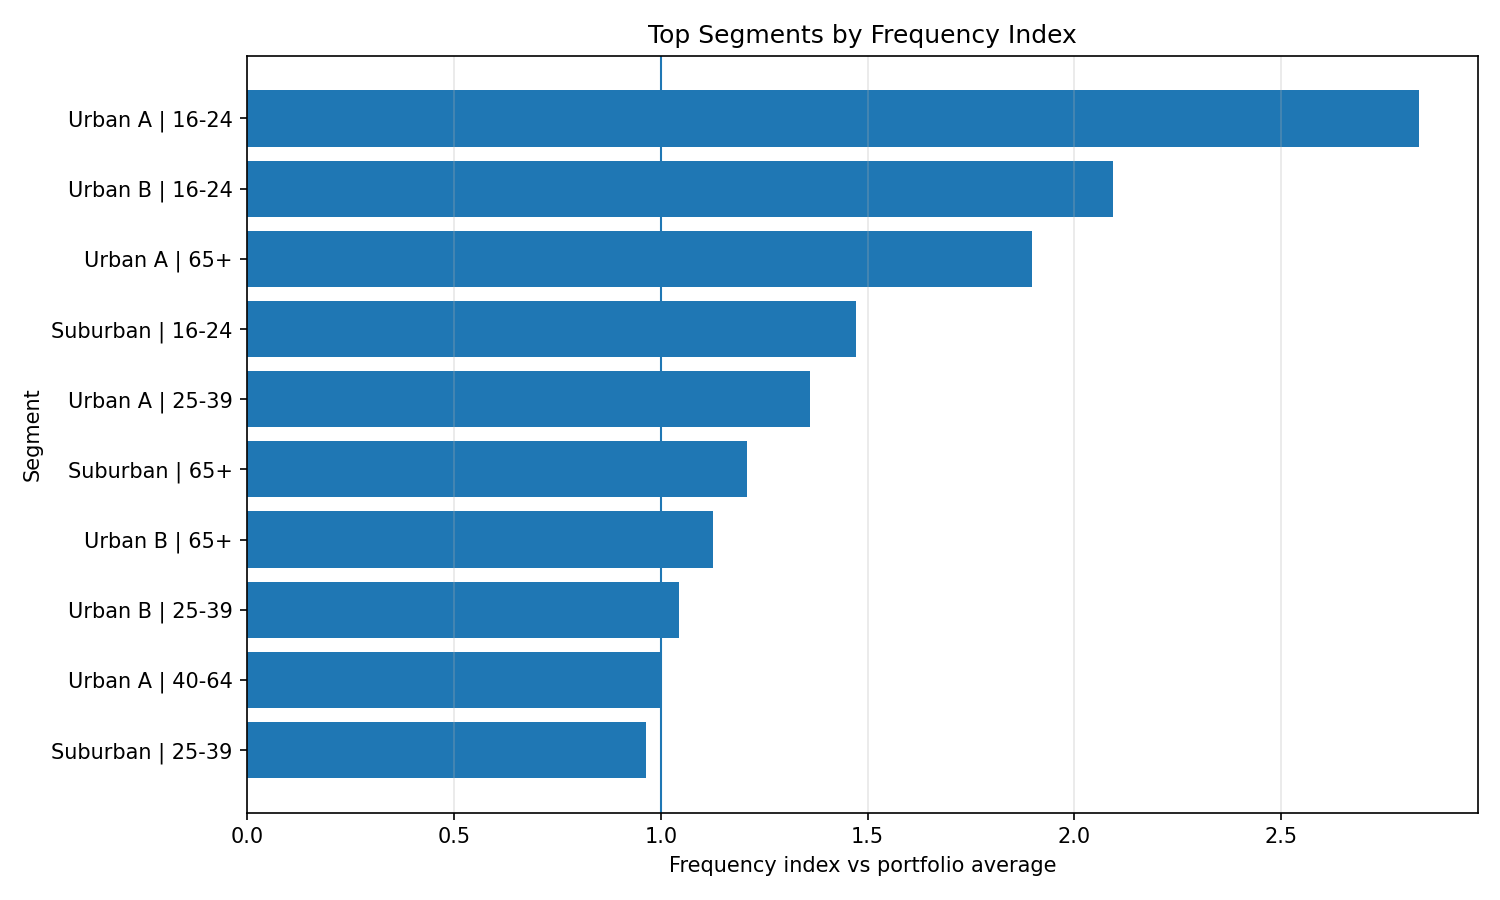
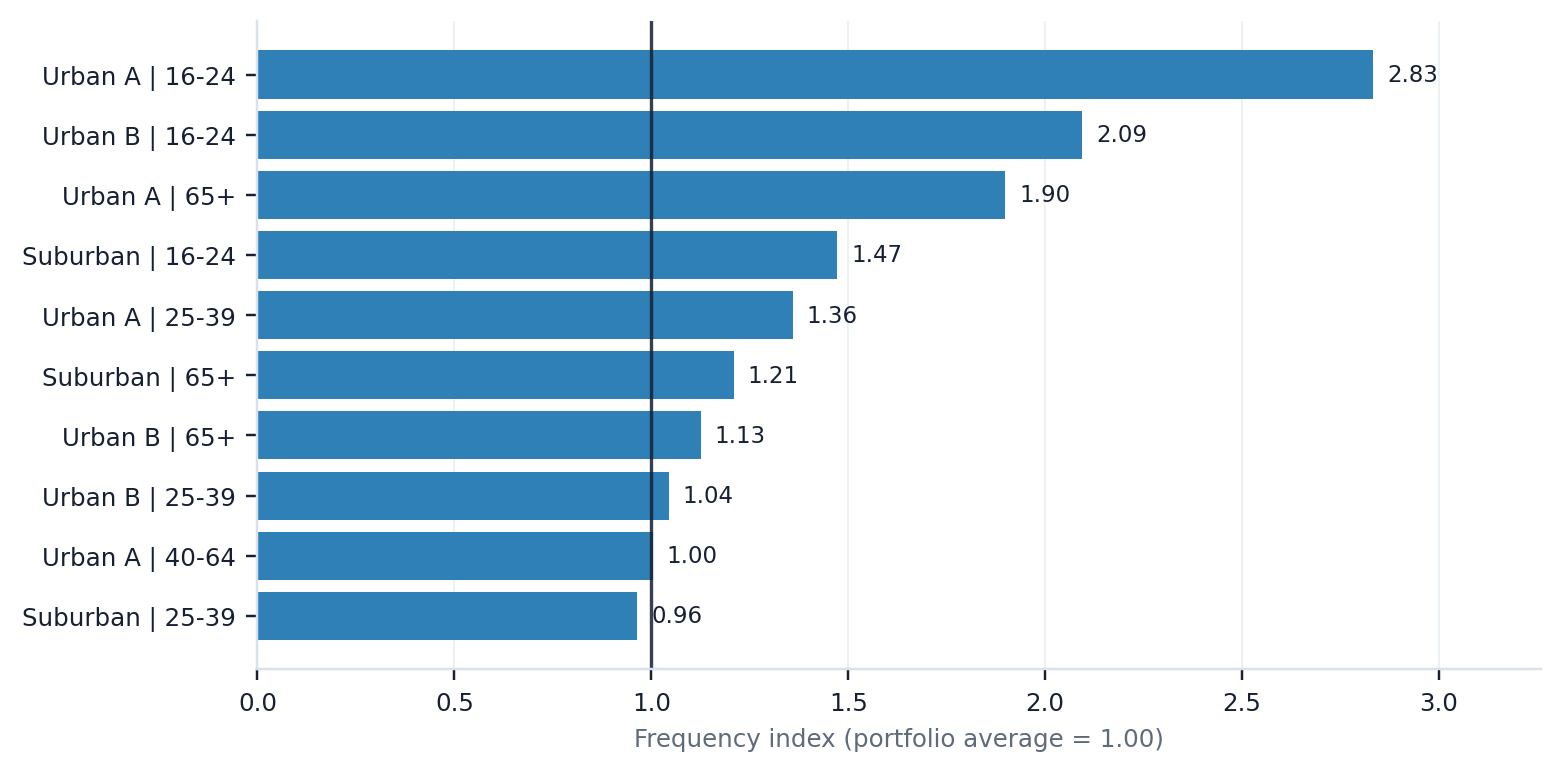
Refine executive chart styling

Changed region(s): [[0.0, 0.031, 0.9507, 0.8693], [0.1533, 0.9004, 0.9813, 0.9935]]

diff --git a/src/pc_pricing_diagnostic/executive_visuals.py b/src/pc_pricing_diagnostic/executive_visuals.py
@@ -12,6 +12,14 @@ from pc_pricing_diagnostic.frequency_model import (
 OUTPUT_FIGURES = ROOT / "outputs" / "figures"
 EXECUTIVE_EXCEL_PATH = OUTPUT_EXCEL / "executive_visual_pack.xlsx"
 
+NAVY = "#172033"
+BLUE = "#2f5f98"
+SOFT_BLUE = "#eef5fb"
+GREEN = "#5f8f72"
+MUTED = "#5f6b7a"
+GRID = "#d9e2ec"
+BAR_BLUE = "#2f80b7"
+
 
 def load_required_table(file_name: str) -> pd.DataFrame:
     """
@@ -60,6 +68,42 @@ def prettify_model_name(model_name: str) -> str:
     return mapping.get(model_name, model_name)
 
 
+def apply_executive_axis_style(ax) -> None:
+    """
+    Apply a consistent visual style to executive charts.
+    """
+    ax.set_facecolor("white")
+    ax.grid(True, alpha=0.45, color=GRID, linewidth=0.7)
+    ax.set_axisbelow(True)
+
+    ax.spines["top"].set_visible(False)
+    ax.spines["right"].set_visible(False)
+    ax.spines["left"].set_color(GRID)
+    ax.spines["bottom"].set_color(GRID)
+
+    ax.tick_params(axis="both", colors=NAVY, labelsize=8)
+
+    ax.xaxis.label.set_color(MUTED)
+    ax.yaxis.label.set_color(MUTED)
+    ax.xaxis.label.set_size(8)
+    ax.yaxis.label.set_size(8)
+
+
+def save_figure(fig, file_name: str) -> None:
+    """
+    Save an executive chart with consistent export settings.
+    """
+    OUTPUT_FIGURES.mkdir(parents=True, exist_ok=True)
+
+    fig.savefig(
+        OUTPUT_FIGURES / file_name,
+        dpi=220,
+        bbox_inches="tight",
+        facecolor="white",
+    )
+    plt.close(fig)
+
+
 def save_top_frequency_segments_chart(high_frequency_segments: pd.DataFrame) -> None:
     """
     Save a horizontal bar chart of the top segments by frequency index.
@@ -67,8 +111,6 @@ def save_top_frequency_segments_chart(high_frequency_segments: pd.DataFrame) -> 
     This is one of the most commercial charts because it highlights segments
     that may deserve pricing or underwriting review.
     """
-    OUTPUT_FIGURES.mkdir(parents=True, exist_ok=True)
-
     chart_data = prepare_segment_label(high_frequency_segments)
 
     chart_data = chart_data.sort_values(
@@ -78,25 +120,37 @@ def save_top_frequency_segments_chart(high_frequency_segments: pd.DataFrame) -> 
 
     chart_data = chart_data.iloc[::-1]
 
-    fig, ax = plt.subplots(figsize=(10, 6))
+    fig, ax = plt.subplots(figsize=(7.2, 3.6))
 
     ax.barh(
         chart_data["segment_label"],
         chart_data["frequency_index"],
+        color=BAR_BLUE,
+        edgecolor="none",
     )
-    ax.axvline(1.0, linewidth=1)
 
-    ax.set_title("Top Segments by Frequency Index")
-    ax.set_xlabel("Frequency index vs portfolio average")
-    ax.set_ylabel("Segment")
-    ax.grid(True, axis="x", alpha=0.3)
+    ax.axvline(1.0, color=NAVY, linewidth=1.1, alpha=0.85)
+
+    for index, value in enumerate(chart_data["frequency_index"]):
+        ax.text(
+            value + 0.035,
+            index,
+            f"{value:.2f}",
+            va="center",
+            fontsize=7.5,
+            color=NAVY,
+        )
+
+    ax.set_xlabel("Frequency index (portfolio average = 1.00)")
+    ax.set_ylabel("")
+    ax.set_xlim(0, max(chart_data["frequency_index"].max() * 1.15, 1.25))
+
+    apply_executive_axis_style(ax)
+    ax.grid(True, axis="x", alpha=0.45, color=GRID, linewidth=0.7)
+    ax.grid(False, axis="y")
+
     fig.tight_layout()
-
-    fig.savefig(
-        OUTPUT_FIGURES / "executive_top_frequency_segments.png",
-        dpi=150,
-    )
-    plt.close(fig)
+    save_figure(fig, "executive_top_frequency_segments.png")
 
 
 def save_top_loss_ratio_segments_chart(high_frequency_segments: pd.DataFrame) -> None:
@@ -106,8 +160,6 @@ def save_top_loss_ratio_segments_chart(high_frequency_segments: pd.DataFrame) ->
     This helps explain which segments may be commercially important from a
     premium adequacy perspective, not only a claim frequency perspective.
     """
-    OUTPUT_FIGURES.mkdir(parents=True, exist_ok=True)
-
     chart_data = prepare_segment_label(high_frequency_segments)
 
     chart_data = chart_data.sort_values(
@@ -117,25 +169,37 @@ def save_top_loss_ratio_segments_chart(high_frequency_segments: pd.DataFrame) ->
 
     chart_data = chart_data.iloc[::-1]
 
-    fig, ax = plt.subplots(figsize=(10, 6))
+    fig, ax = plt.subplots(figsize=(7.2, 3.6))
 
     ax.barh(
         chart_data["segment_label"],
         chart_data["loss_ratio_index"],
+        color=GREEN,
+        edgecolor="none",
     )
-    ax.axvline(1.0, linewidth=1)
 
-    ax.set_title("Top Segments by Loss Ratio Index")
-    ax.set_xlabel("Loss ratio index vs portfolio average")
-    ax.set_ylabel("Segment")
-    ax.grid(True, axis="x", alpha=0.3)
+    ax.axvline(1.0, color=NAVY, linewidth=1.1, alpha=0.85)
+
+    for index, value in enumerate(chart_data["loss_ratio_index"]):
+        ax.text(
+            value + 0.025,
+            index,
+            f"{value:.2f}",
+            va="center",
+            fontsize=7.5,
+            color=NAVY,
+        )
+
+    ax.set_xlabel("Loss ratio index (portfolio average = 1.00)")
+    ax.set_ylabel("")
+    ax.set_xlim(0, max(chart_data["loss_ratio_index"].max() * 1.15, 1.25))
+
+    apply_executive_axis_style(ax)
+    ax.grid(True, axis="x", alpha=0.45, color=GRID, linewidth=0.7)
+    ax.grid(False, axis="y")
+
     fig.tight_layout()
-
-    fig.savefig(
-        OUTPUT_FIGURES / "executive_top_loss_ratio_segments.png",
-        dpi=150,
-    )
-    plt.close(fig)
+    save_figure(fig, "executive_top_loss_ratio_segments.png")
 
 
 def save_calibration_chart(calibration_by_decile: pd.DataFrame) -> None:
@@ -145,74 +209,103 @@ def save_calibration_chart(calibration_by_decile: pd.DataFrame) -> None:
     This is the key model validation chart that is still understandable in a
     commercial conversation.
     """
-    OUTPUT_FIGURES.mkdir(parents=True, exist_ok=True)
-
     chart_data = calibration_by_decile.sort_values("risk_decile").copy()
 
-    fig, ax = plt.subplots(figsize=(9, 5))
+    fig, ax = plt.subplots(figsize=(7.2, 3.6))
 
     ax.plot(
         chart_data["risk_decile"],
         chart_data["observed_frequency"],
         marker="o",
-        label="Observed frequency",
+        markersize=4.5,
+        linewidth=1.8,
+        color=BLUE,
+        label="Observed",
     )
     ax.plot(
         chart_data["risk_decile"],
         chart_data["expected_frequency"],
         marker="o",
-        label="Expected frequency",
+        markersize=4.5,
+        linewidth=1.8,
+        color=GREEN,
+        label="Expected",
     )
 
-    ax.set_title("Observed vs Expected Frequency by Risk Decile")
     ax.set_xlabel("Risk decile")
     ax.set_ylabel("Claim frequency")
-    ax.grid(True, alpha=0.3)
-    ax.legend()
-    fig.tight_layout()
+    ax.set_xticks(chart_data["risk_decile"])
 
-    fig.savefig(
-        OUTPUT_FIGURES / "executive_calibration_by_decile.png",
-        dpi=150,
+    apply_executive_axis_style(ax)
+
+    legend = ax.legend(
+        loc="upper left",
+        frameon=True,
+        fontsize=8,
+        borderpad=0.4,
     )
-    plt.close(fig)
+    legend.get_frame().set_edgecolor(GRID)
+    legend.get_frame().set_facecolor("white")
+
+    fig.tight_layout()
+    save_figure(fig, "executive_calibration_by_decile.png")
 
 
 def save_model_specification_chart(
     model_specification_ranking: pd.DataFrame,
 ) -> None:
     """
-    Save a chart comparing candidate model specifications by test mean Poisson deviance.
+    Save a chart comparing candidate model specifications.
 
-    This is slightly more technical, but useful as a credibility chart when a
-    pricing manager or technical reviewer wants to see why one benchmark model
-    was preferred.
+    The chart uses deviance lift versus the best model instead of raw test mean
+    Poisson deviance, because raw deviance values may be visually too close.
     """
-    OUTPUT_FIGURES.mkdir(parents=True, exist_ok=True)
+    chart_data = model_specification_ranking.copy()
 
-    chart_data = model_specification_ranking.sort_values("rank").copy()
+    if "deviance_lift_vs_best" not in chart_data.columns:
+        best_deviance = chart_data["mean_poisson_deviance"].min()
+        chart_data["deviance_lift_vs_best"] = (
+            chart_data["mean_poisson_deviance"] / best_deviance - 1
+        )
+
+    chart_data["deviance_lift_pct"] = chart_data["deviance_lift_vs_best"] * 100
     chart_data["model_label"] = chart_data["model"].map(prettify_model_name)
 
-    chart_data = chart_data.iloc[::-1]
+    chart_data = chart_data.sort_values(
+        ["deviance_lift_pct", "parameters"],
+        ascending=[False, True],
+    )
 
-    fig, ax = plt.subplots(figsize=(10, 6))
+    fig, ax = plt.subplots(figsize=(7.2, 3.6))
 
     ax.barh(
         chart_data["model_label"],
-        chart_data["mean_poisson_deviance"],
+        chart_data["deviance_lift_pct"],
+        color=BAR_BLUE,
+        edgecolor="none",
     )
 
-    ax.set_title("Model Specification Comparison")
-    ax.set_xlabel("Test mean Poisson deviance")
-    ax.set_ylabel("Model specification")
-    ax.grid(True, axis="x", alpha=0.3)
+    for index, value in enumerate(chart_data["deviance_lift_pct"]):
+        label = f"{value:.2f}%"
+        ax.text(
+            value + 0.015,
+            index,
+            label,
+            va="center",
+            fontsize=7.5,
+            color=NAVY,
+        )
+
+    ax.set_xlabel("Increase vs best test mean Poisson deviance")
+    ax.set_ylabel("")
+    ax.set_xlim(0, max(chart_data["deviance_lift_pct"].max() * 1.25, 0.25))
+
+    apply_executive_axis_style(ax)
+    ax.grid(True, axis="x", alpha=0.45, color=GRID, linewidth=0.7)
+    ax.grid(False, axis="y")
+
     fig.tight_layout()
-
-    fig.savefig(
-        OUTPUT_FIGURES / "executive_model_specification_comparison.png",
-        dpi=150,
-    )
-    plt.close(fig)
+    save_figure(fig, "executive_model_specification_comparison.png")
 
 
 def create_visual_inventory() -> pd.DataFrame:
